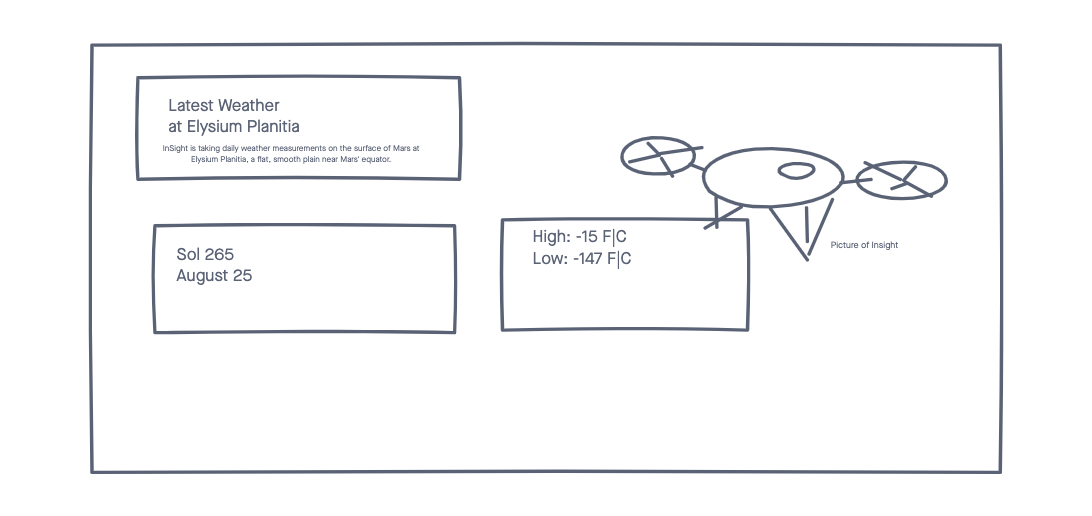
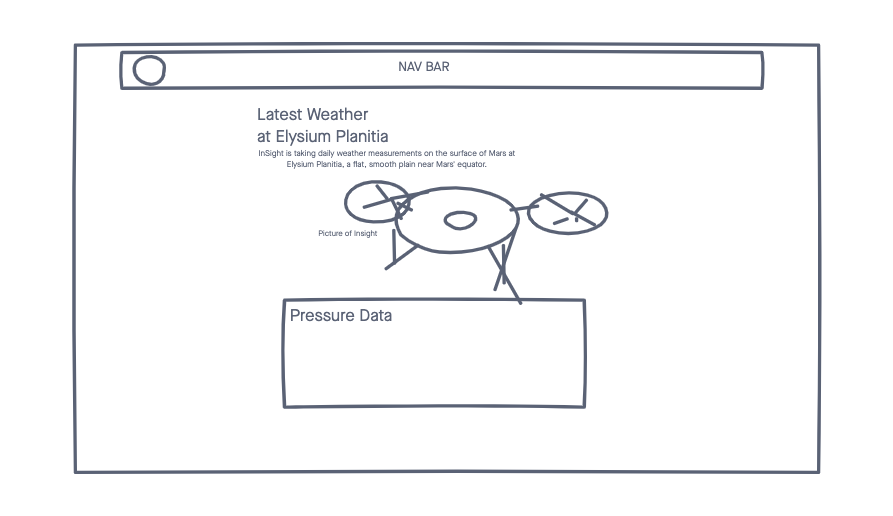
final htmlcss

diff --git a/css/style.css b/css/style.css
@@ -3,6 +3,7 @@
     padding: 0;
     margin: 0;
     font-family: 'Montserrat', sans-serif;
+    
 }
 
 h1 {
@@ -32,13 +33,57 @@ a:hover {
     border: #192841;
 }
 
-.list {
-    border-collapse: collapse;
-    margin: 25px 0;
-    font-size: 0.9em;
-    min-width: 400px;
+header,main {
+    DISPLAY: FLEX;
+    FLEX-DIRECTION: column;
+    JUSTIFY-CONTENT: CENTER;
+    ALIGN-ITEMS: center;
+    padding: 1rem;
+
 
 }
 
+.insight {
+ width: 55%;
+ height: 55vh;
+ 
 
+}
+
+.insight-img{
+ width: 100%;
+ height: 100%;
+
+}
+
+ul{
+list-style: none;
+margin-top: 1rem;
+}
+
+#weather{
+margin-top: 1rem;
+
+
+}
+
+li{
+ border: 1px solid black;
+ padding: 15px;
+ margin-bottom: 10px;
+ 
+
+
+}
+
+footer {
+    DISPLAY: FLEX;
+    FLEX-DIRECTION: column;
+    JUSTIFY-CONTENT: CENTER;
+    ALIGN-ITEMS: center;
+  
+    margin: 30px;
+
+
+}
 

diff --git a/index.html b/index.html
@@ -40,13 +40,15 @@
     </header>
     <main>
         <div class="insight">
-            <img src="https://mars.nasa.gov/system/basic_html_elements/122_insight_experience_4x6_brighter.jpg" alt="P
+            <img class="insight-img" src="https://mars.nasa.gov/system/basic_html_elements/122_insight_experience_4x6_brighter.jpg" alt="P
     icture of Insight"></a></div>
-        <p>Image credit: NASA/JPL-Caltech/Cornell/CAB</p>
+        
 
         <section id="weather">
             <article class="card">
-                <h1>Insights Pressure</h1>
+                <h1>InSight Weather Report
+                 Atmospheric pressure is shown in Pascals in the table below.
+                </h1>
             </article>
 
         </section>

diff --git a/README.md b/README.md
@@ -11,11 +11,11 @@ Insight's weather mesasurements from the surface of Mars.
 
 ## Screenshots
 
-![screenshot1]()
+![screenshot1](./MarsWeatherApp.png)
 
 ## Getting Started
 
-[Click here](#) to see the app in your browser
+[Click here](https://jassmin-herr09.github.io/marsWeatherApp.github.io/) to see the app in your browser
 
 ## Future Enhancements
 
